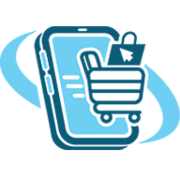
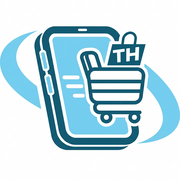
feat: Новый логотип и фавикон, увеличенный лого в шапке

diff --git a/src/app/account/page.tsx b/src/app/account/page.tsx
@@ -2,6 +2,7 @@
 
 import Header from "@/components/Header";
 import Footer from "@/components/Footer";
+import Image from "next/image";
 import { useState, useEffect, startTransition } from "react";
 import { useRouter } from "next/navigation";
 
@@ -319,11 +320,9 @@ export default function AccountPage() {
           <div className="relative z-10 w-full max-w-md mx-4 animate-fade-in-up">
             {/* Logo */}
             <div className="text-center mb-6">
-              <div className="inline-flex items-center gap-2 mb-2">
-                <div className="w-12 h-12 bg-primary rounded-xl flex items-center justify-center shadow-md">
-                  <span className="text-white font-bold text-lg font-heading">TH</span>
-                </div>
-                <span className="text-primary text-2xl font-bold font-heading">ТОПХИТ</span>
+              <div className="inline-flex items-center gap-3 mb-2">
+                <Image src="/logo.png" alt="ТОПХИТ" width={56} height={56} className="w-14 h-14 drop-shadow-md" />
+                <span className="text-primary text-3xl font-extrabold font-heading tracking-tight">ТОПХИТ</span>
               </div>
               <p className="text-text-gray text-sm">
                 {resetMode ? "Восстановление доступа к аккаунту" : "Войдите для управления заказами и избранным"}

diff --git a/src/components/Header.tsx b/src/components/Header.tsx
@@ -146,11 +146,11 @@ export default function Header() {
         <div className="flex items-center justify-between gap-2 sm:gap-4">
           {/* Logo */}
           <Link href="/" className="flex-shrink-0">
-            <div className="flex items-center gap-1.5 sm:gap-2">
-              <Image src="/logo.png" alt="ТОПХИТ" width={40} height={40} className="w-8 h-8 sm:w-10 sm:h-10" />
+            <div className="flex items-center gap-2 sm:gap-3">
+              <Image src="/logo.png" alt="ТОПХИТ" width={56} height={56} className="w-10 h-10 sm:w-14 sm:h-14 drop-shadow-md" />
               <div>
-                <h1 className="text-lg sm:text-xl font-bold text-primary leading-tight font-heading">ТОПХИТ</h1>
-                <p className="text-[10px] sm:text-xs text-text-gray leading-tight">интернет-магазин</p>
+                <h1 className="text-xl sm:text-2xl font-extrabold text-primary leading-tight font-heading tracking-tight">ТОПХИТ</h1>
+                <p className="text-[10px] sm:text-xs text-text-gray leading-tight tracking-wide">интернет-магазин</p>
               </div>
             </div>
           </Link>

diff --git a/src/components/Footer.tsx b/src/components/Footer.tsx
@@ -9,7 +9,7 @@ export default function Footer() {
           {/* Company info */}
           <div>
             <div className="flex items-center gap-2 mb-4">
-              <Image src="/logo.png" alt="ТОПХИТ" width={32} height={32} className="w-8 h-8" />
+              <Image src="/logo.png" alt="ТОПХИТ" width={40} height={40} className="w-10 h-10 drop-shadow-md" />
               <span className="text-lg font-bold">ТОПХИТ</span>
             </div>
             <p className="text-white/75 text-sm">
